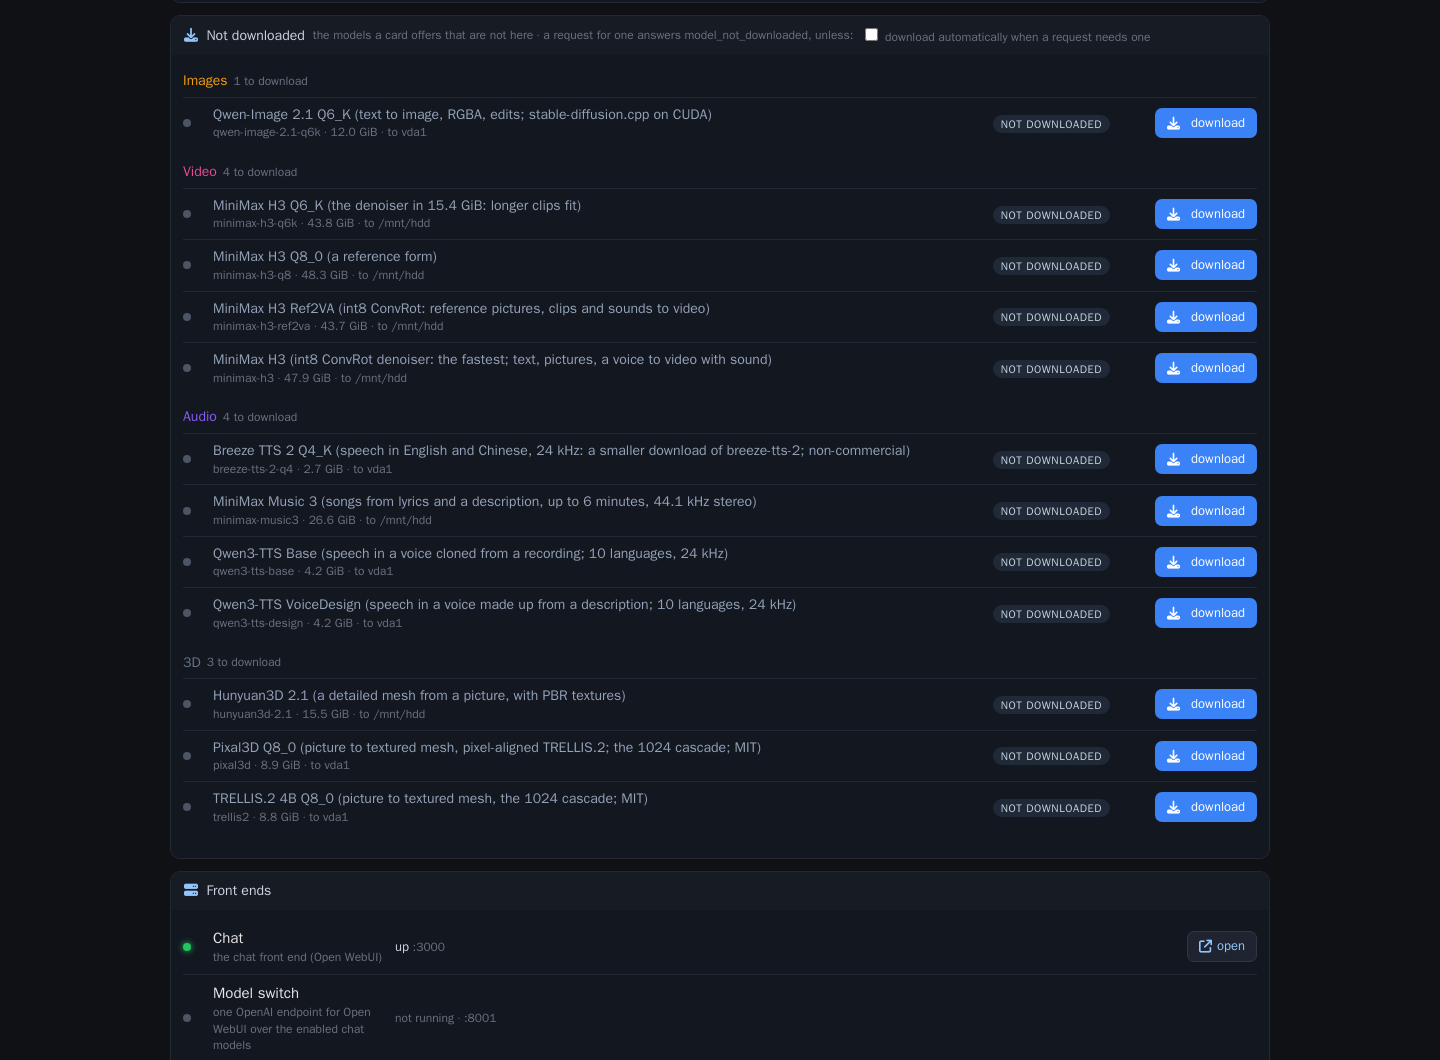
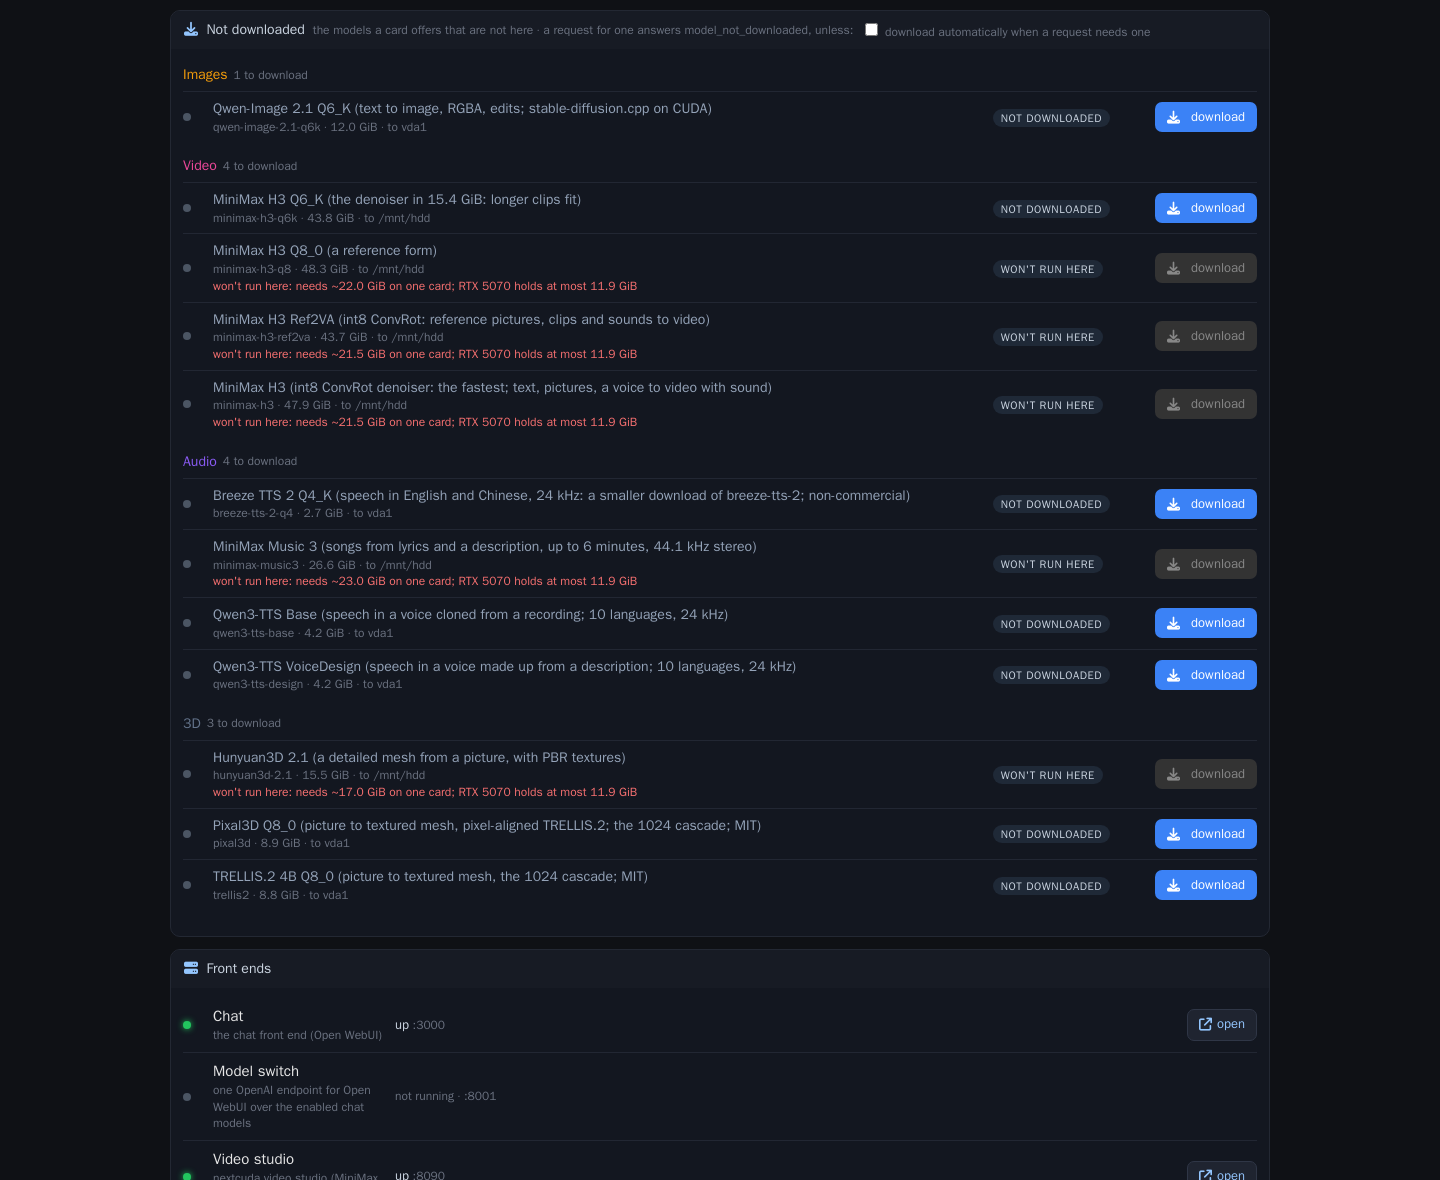
README: the fast / long Qwen3.8 entry, won't-run-here on the page, Pixal3D downloadable; fresh screenshots
Claude-Session: https://claude.ai/code/session_01AQEfXp6XRnd86K468opeA7

diff --git a/README.md b/README.md
@@ -11,7 +11,7 @@ We stand on the shoulders of giants.
 - **Made for the cards people have** - two 12 GB cards (an RTX 5070 and an RTX 3060) run chat, pictures, OCR, speech,
   songs, video with sound and 3D: Qwen3.8-27B reads prompts at ~1,200 tok/s over both cards (llama.cpp: 925),
   MiniMax H3 makes video with sound across both, Nemotron 3.5 Super (120B) chats on one, its experts streamed
-- **Every kind behind one door** - 20 models served here, 12 more a click away (`Not downloaded` on the page), each
+- **Every kind behind one door** - 21 models served here, 7 more a click away (`Not downloaded` on the page), each
   started on the card with room when a request names it and let go when idle
 - **A single API control plane** - one service, `nextcuda.service`, answers on :8000 and starts a model server when a
   request names its model
@@ -194,14 +194,16 @@ curl -s http://127.0.0.1:8085/v1/chat/completions -H 'content-type: application/
 
 ## Supported models
 
-32 model cards in `model-cards/` (one YAML a model, every file a pinned link with its size and SHA-256);
+33 model cards in `model-cards/` (one YAML a model, every file a pinned link with its size and SHA-256);
 `nextcuda models pull <id> [--from DIR]` downloads what is missing or hard-links a file already on the machine,
 checks it and registers the model. **Served** - running on this box today; **download** - its card is here and it
-runs once pulled; **too big** - more than these 12 GB cards hold (bigger cards).
+runs once pulled; **too big** - more than these 12 GB cards hold: the page shows it "won't run here" (why, in GiB)
+with its Download off (`system.models.pull` still fetches it, for bigger cards).
 
 | kind | id | model | on disk | here |
 |---|---|---|---|---|
 | chat | `qwen3.8-27b-gsq-iq3s` | Qwen3.8-27B, ISTA-DASLab's GSQ-RCO IQ3_S with its MTP head and the BF16 vision projector: text and pictures, thinking switch, 80K context (192K with q4_0) | 12.2 GiB | served, both cards whole |
+| chat | `qwen3.8-27b-gsq-iq3s-long` | the same files, fast / long: the cache q4_0 rotated, 160K of context (a speech model still fits beside it) | (the above's) | served |
 | chat | `nemotron-3.5-super-iq1m` | NVIDIA Nemotron 3.5 Super 120B-A12B, unsloth's UD-IQ1_M (text) | 43.0 GiB | served (one card, experts streamed; off by default) |
 | image | `qwen-image-2.1-q8` | Qwen-Image 2.1 Q8_0 with Qwen3-VL 8B: text to image, RGBA, edits from up to 8 pictures | 13.6 GiB | served |
 | image | `qwen-image-2.1-rrq4` | Qwen-Image 2.1, [realrebelai's Q4](https://huggingface.co/realrebelai/Qwen-Image-2.1_GGUFs) | 5.5 GiB | served |
@@ -231,7 +233,7 @@ runs once pulled; **too big** - more than these 12 GB cards hold (bigger cards).
 | 3D | `rignet` | RigNet: a skeleton and skin weights for a character mesh (GPLv3) | 0.2 GiB | served |
 | 3D | `animateanymesh` | AnimateAnyMesh: text-driven mesh animation, 16 frames as morph targets (Apache-2.0) | 0.9 GiB | served |
 | 3D | `trellis2` | TRELLIS.2 4B Q8_0, the 1024 cascade | 8.8 GiB | download |
-| 3D | `pixal3d` | Pixal3D Q8_0: pixel-aligned TRELLIS.2, the 1024 cascade (MIT) | 8.9 GiB | too big |
+| 3D | `pixal3d` | Pixal3D Q8_0: pixel-aligned TRELLIS.2, the 1024 cascade (MIT) | 8.9 GiB | download |
 | 3D | `hunyuan3d-2.1` | Hunyuan3D 2.1: a detailed mesh with PBR textures | 15.5 GiB | too big |
 
 Each model's guide (how to ask it, what it takes, what it answers) is in `model-cards/guides/`.
@@ -378,9 +380,8 @@ nextcuda audio check <reference dump dir> --model breeze-tts-2        # referenc
 | 3D | TRELLIS.2, Hunyuan3D-2mini, UniRig, RigNet, AnimateAnyMesh | one card each |
 
 Not here yet: `audio.transcribe` (Whisper - the platform's music and audio makers still listen locally), ACE-Step,
-VibeVoice, HunyuanImage 2.1, the video upscalers; the bigger cards' forms above. Known rough edges: the video
-studio's page still titles itself "nextsycl video" and shows its GPU line as NaN; `system.version` answers nextsycl's
-driver name (the platform reads it).
+VibeVoice, HunyuanImage 2.1, the video upscalers; the bigger cards' forms above. The answers' `nextsycl` result key keeps
+its name (the platform reads it).
 
 ## Clocking it
 
